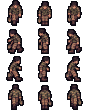
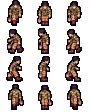
주인공·좀비 3종 도트 그림, 사람·좀비 그림 밝기·대비 보정, 주인공 발밑 고리
Claude-Session: https://claude.ai/code/session_01KjVLBgQ7PSooGyrrdheXoW

diff --git a/index.html b/index.html
@@ -807,7 +807,7 @@ function drawZLabels(){ctx.textAlign='center';for(const l of ZLABELS){ctx.font=`
 /* ───────── 그림(art/) ─────────
    tools/build-art.py가 만든 도트 그림. ART_READY에 있는 것만 불러오고(없는 파일 요청 금지), 불러오기 전·없는 것은 코드 그림으로 그린다.
    그림을 새로 받으면 build-art.py를 돌린 뒤 여기 목록에 이름을 더한다. */
-const ART_READY=['ally_gangseok','ally_jisu','ally_yuna','ally_malsun','car_sedan','car_taxi','bus_blue','car_police','truck_army','scooter','bags','bike','bin','t_asphalt','t_sidewalk','t_alley','t_grass','t_floor_wood','t_floor_tile','t_subway','t_water'];
+const ART_READY=['player','z_walker','z_runner','z_screamer','ally_gangseok','ally_jisu','ally_yuna','ally_malsun','car_sedan','car_taxi','bus_blue','car_police','truck_army','scooter','bags','bike','bin','t_asphalt','t_sidewalk','t_alley','t_grass','t_floor_wood','t_floor_tile','t_subway','t_water'];
 const ART={},PATS=new Map();
 for(const n of ART_READY){const im=new Image();im.onload=()=>{ART[n]=im};im.src='art/'+n+'.png'}
 function pat(n){const im=ART[n];if(!im)return null;const k=n+(ctx===mctx?'m':'l');let p=PATS.get(k);if(!p){p=ctx.createPattern(im,'repeat');PATS.set(k,p)}return p}
@@ -1730,7 +1730,7 @@ function zombieMarks(z,top){const x=z.x,y=z.y;top=top||52;
 }
 function drawPlayer(){
   const x=P.x,y=P.y,moving=keys.KeyW||keys.KeyA||keys.KeyS||keys.KeyD||keys.ArrowUp||keys.ArrowDown||keys.ArrowLeft||keys.ArrowRight||joy.on;
-  if(ART.player){drawSheet('player',P,moving,P.hurt>0?.6:undefined);if(P.swing>0){const fa=Math.atan2(P.fy,P.fx),w=WEAP[P.weapon.id];ctx.strokeStyle='rgba(255,255,255,.4)';ctx.lineWidth=2;ctx.beginPath();ctx.ellipse(x,y-14,w.reach,w.reach*.7,0,fa-1,fa+1);ctx.stroke()}return}
+  if(ART.player){ctx.strokeStyle='rgba(120,220,255,.55)';ctx.lineWidth=2;ctx.beginPath();ctx.ellipse(x,y+2,14,6,0,0,7);ctx.stroke();drawSheet('player',P,moving,P.hurt>0?.6:undefined);if(P.swing>0){const fa=Math.atan2(P.fy,P.fx),w=WEAP[P.weapon.id];ctx.strokeStyle='rgba(255,255,255,.4)';ctx.lineWidth=2;ctx.beginPath();ctx.ellipse(x,y-14,w.reach,w.reach*.7,0,fa-1,fa+1);ctx.stroke()}return}
   const bob=moving?Math.sin(P.ph)*2:0,up=P.fy<-.35;
   ctx.fillStyle='rgba(0,0,0,.32)';ctx.beginPath();ctx.ellipse(x,y+2,10,4,0,0,7);ctx.fill();
   ctx.fillStyle='#2c3440';ctx.fillRect(x-5,y-7+Math.max(0,bob),4,9);ctx.fillRect(x+1,y-7+Math.max(0,-bob),4,9);

diff --git a/tools/build-art.py b/tools/build-art.py
@@ -14,9 +14,14 @@ PROPS={'props_street':[('car_sedan',20),('car_taxi',20),('bus_blue',30),('car_po
        'props_misc':[('sign_board',14),('barricade',16),('sandbags',12),('crate_army',12),('tree_ginkgo',40),('fridge',26),('shelf',22),('desk',18),('wardrobe',28)]}
 TILES=['t_asphalt','t_sidewalk','t_alley','t_grass','t_floor_wood','t_floor_tile','t_subway','t_water']
 done=[]
+from PIL import ImageEnhance
+def pop(f,name):
+    # 사람·좀비는 어두운 거리에서 보이도록 밝기·대비·채도를 올린다
+    im=Image.open(f).convert('RGB');im=ImageEnhance.Brightness(im).enhance(1.3);im=ImageEnhance.Contrast(im).enhance(1.25);im=ImageEnhance.Color(im).enhance(1.35)
+    t=f'/tmp/_pop_{name}.png';im.save(t);return t
 for c in CHARS:
     f=raw(c)
-    if f:sheet(f,3,4,24).save(f'{OUT}/{c}.png');done.append(c)
+    if f:sheet(pop(f,c),3,4,24).save(f'{OUT}/{c}.png');done.append(c)
 for sh,items in PROPS.items():
     f=raw(sh)
     if not f:continue

diff --git a/tools/pixelize.py b/tools/pixelize.py
@@ -15,7 +15,8 @@ def unbg(im,tol=60):
     # 마젠타 배경이면 「마젠타스러운」 픽셀(경계 번짐 포함)을 모두 지우고, 아니면 귀퉁이 색과 비슷한 픽셀을 지운다
     im=im.convert('RGBA');px=im.load();w,h=im.size
     corners=[px[0,0],px[w-1,0],px[0,h-1],px[w-1,h-1]];bg=max(set(corners),key=corners.count)
-    mag=bg[0]>170 and bg[2]>170 and bg[1]<110
+    edge=[px[x,y] for x in range(0,w,7) for y in (3,h//2,h-4)]+[px[x,y] for y in range(0,h,7) for x in (3,w-4)]
+    mag=sum(1 for r,g,b,a in edge if r>170 and b>170 and g<110)>len(edge)*.4
     for y in range(h):
         for x in range(w):
             r,g,b,a=px[x,y]

diff --git a/README.md b/README.md
@@ -44,7 +44,7 @@
 - **거점:** 들어가면 가방이 창고로 비워진다. 상태(먹기·치료) / 제작(붕대·폭죽·무기·수리) / 시설(빗물 받이·옥상 텃밭·바리케이드) / 챙기기.
 - **화면:** 기본은 「도트」. 화면을 작게 그린 뒤 32색 팔레트와 디더링으로 맞춰 각지게 키운다(글자는 선명하게 따로). 건물 안에는 창문 빛줄기, 건물 옆에는 그림자. 일시정지 메뉴에서 도트 → 무채색+네온 → 기본 순으로 바꿀 수 있다.
   - 무채색+네온: 도시는 회색으로 바래고, 간판·피·물건 반짝임·사람과 좀비만 색이 남는다. 밤에는 켜진 간판이 어둠 속에서 빛나며 바닥에 번진다(일부는 꺼졌거나 깜박임). 일시정지 메뉴에서 예전 화면으로 바꿀 수 있다.
-- **도트 그림:** AI로 만든 도트 그림이 들어가는 중. 지금 들어간 것: 동료 4명(최강석·한지수·유나·말순 할머니) 걷기 그림, 승용차·택시·경찰차·버스·군용 트럭, 쓰레기통·종량제 봉투·쓰러진 배달 오토바이·공공자전거, 바닥 무늬(아스팔트·보도블록·골목·풀밭·실내 바닥·지하철·강물). 주인공·좀비·박도윤은 아직 코드 그림.
+- **도트 그림:** AI로 만든 도트 그림이 들어가는 중. 지금 들어간 것: 주인공·좀비 3종(회사원·조깅복·환자복)·동료 4명(최강석·한지수·유나·말순 할머니) 걷기 그림(주인공 발밑엔 하늘색 고리), 승용차·택시·경찰차·버스·군용 트럭, 쓰레기통·종량제 봉투·쓰러진 배달 오토바이·공공자전거, 바닥 무늬(아스팔트·보도블록·골목·풀밭·실내 바닥·지하철·강물). 박도윤과 기타 소품(입간판·바리케이드 등)은 아직.
 - **날씨(비):** 날마다 30% 확률로 비가 온다(시계에 ☔). 비가 오면 바깥에서
   - 모든 소리 반경이 70%로 줄고, 좀비 시야도 85%로 준다.
   - 빗물을 마셔 갈증이 절반만 줄어든다.
